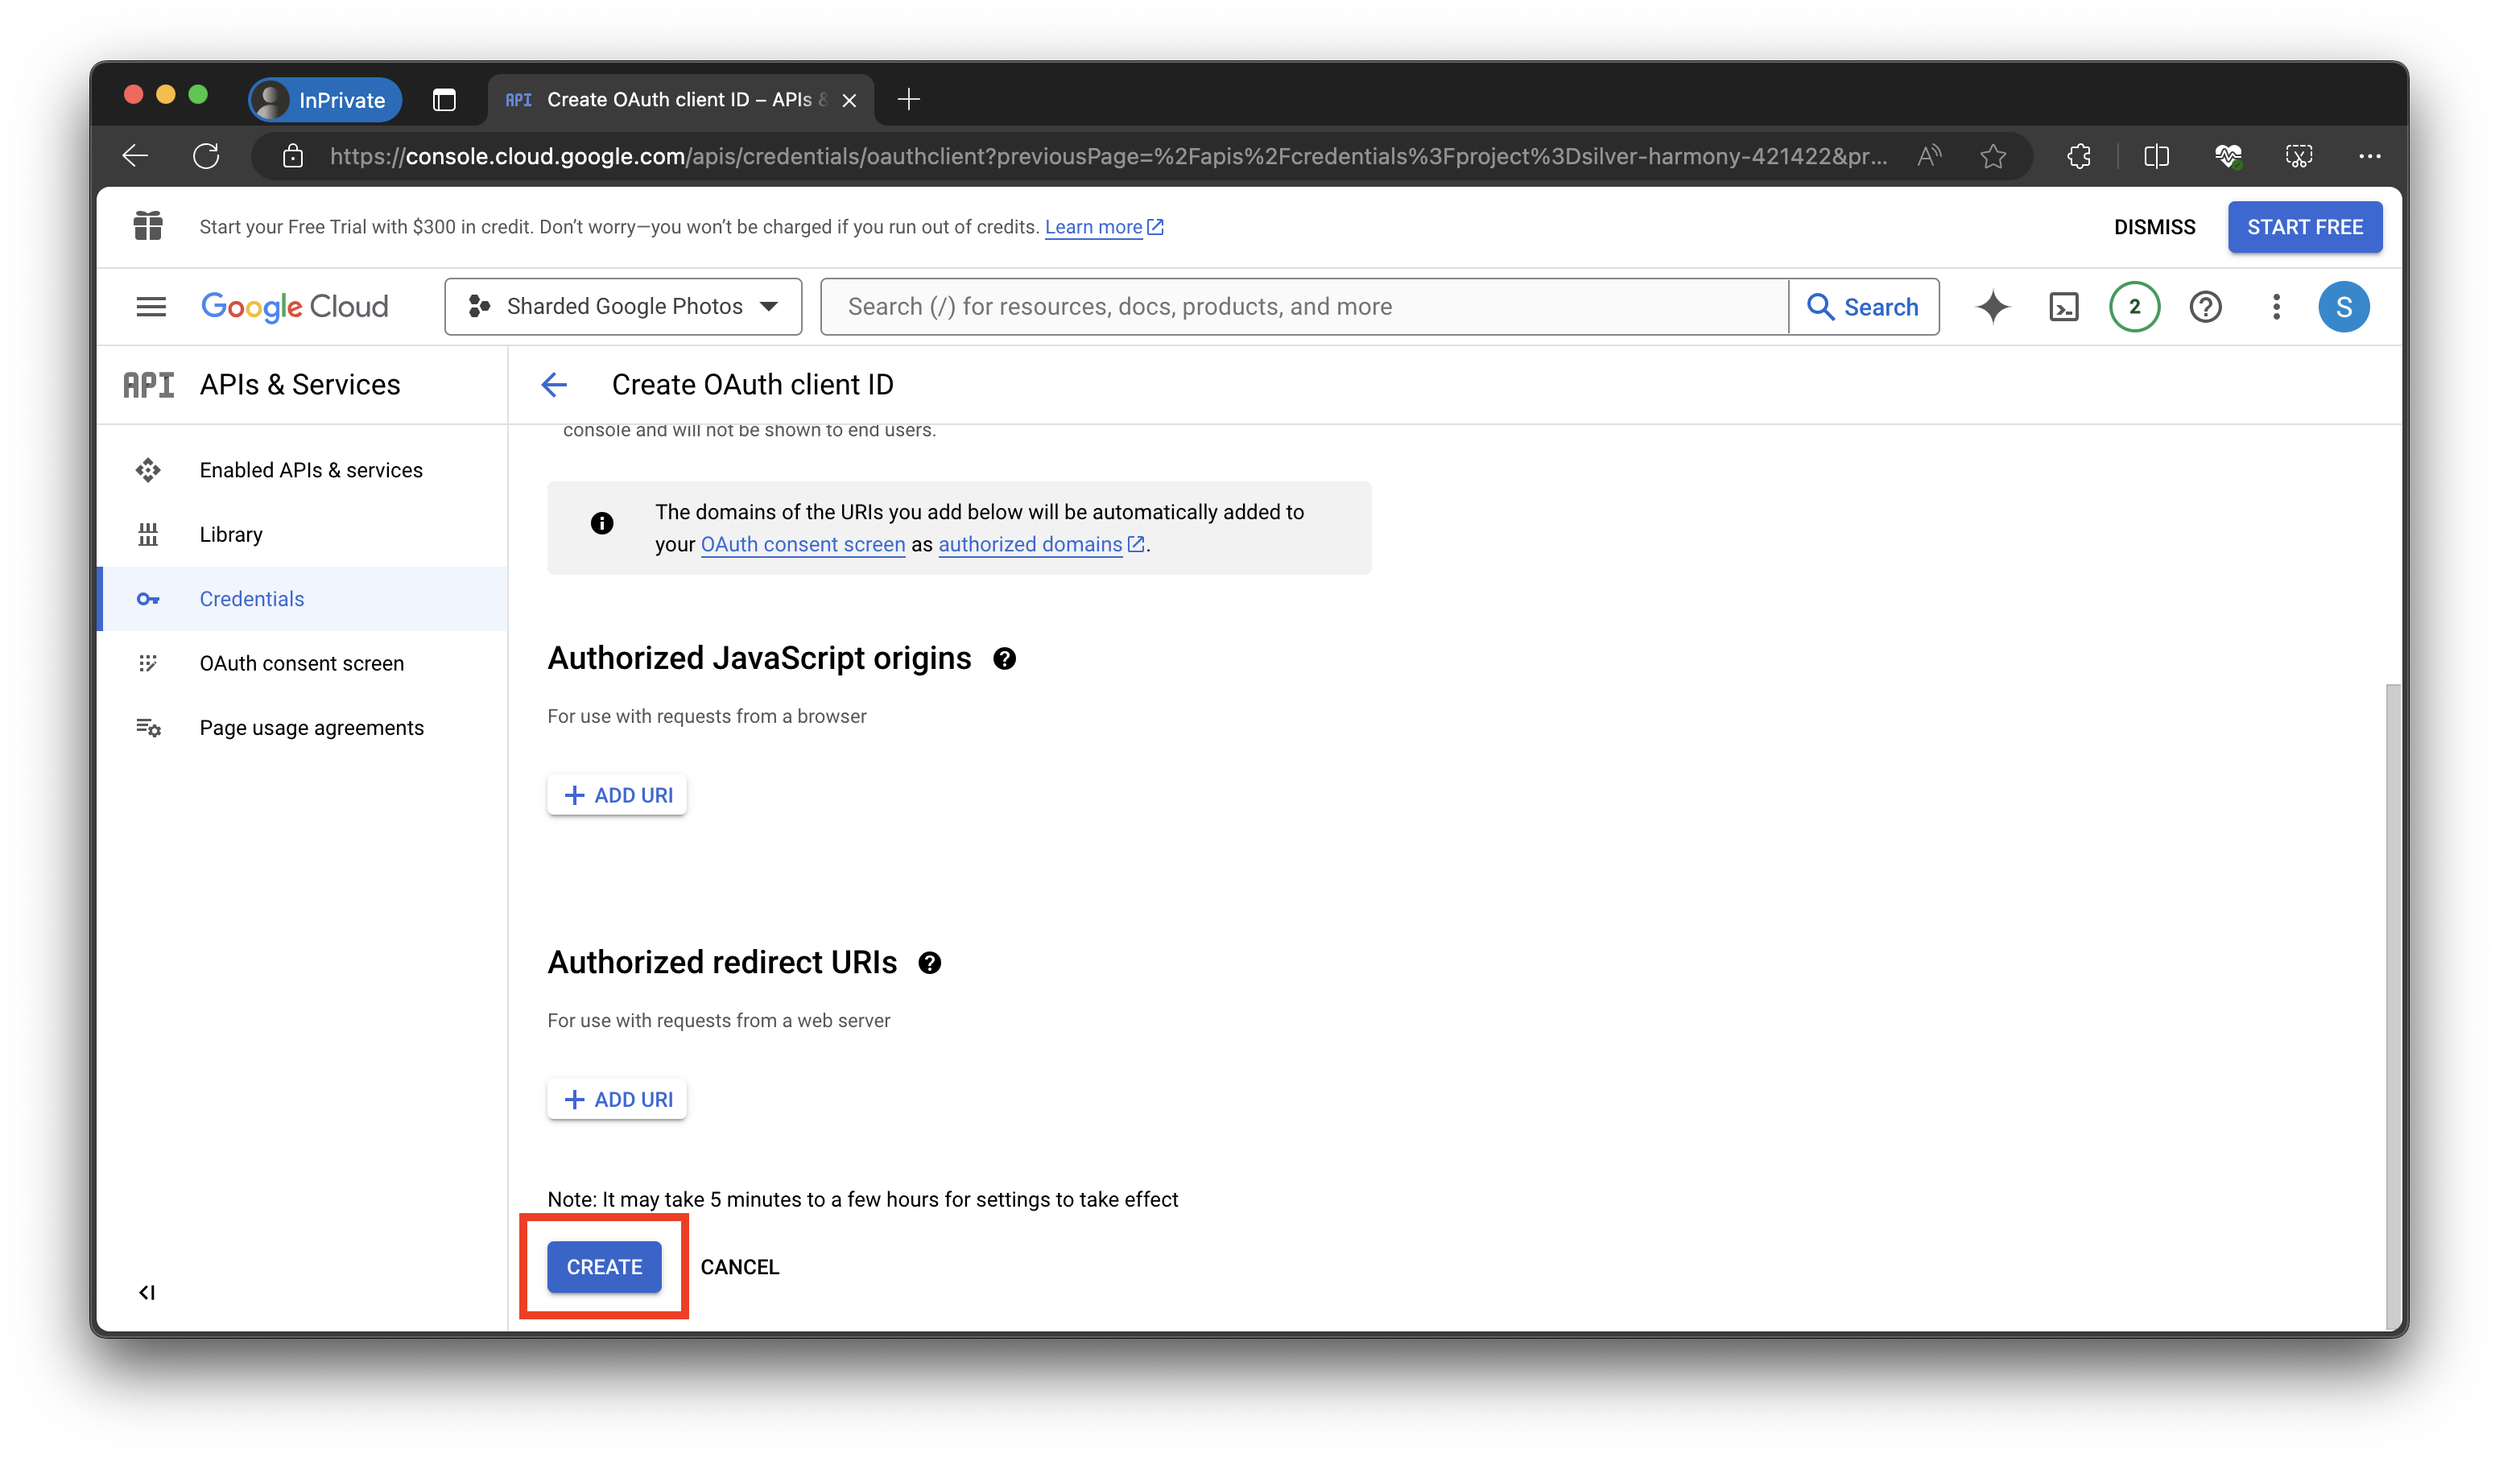
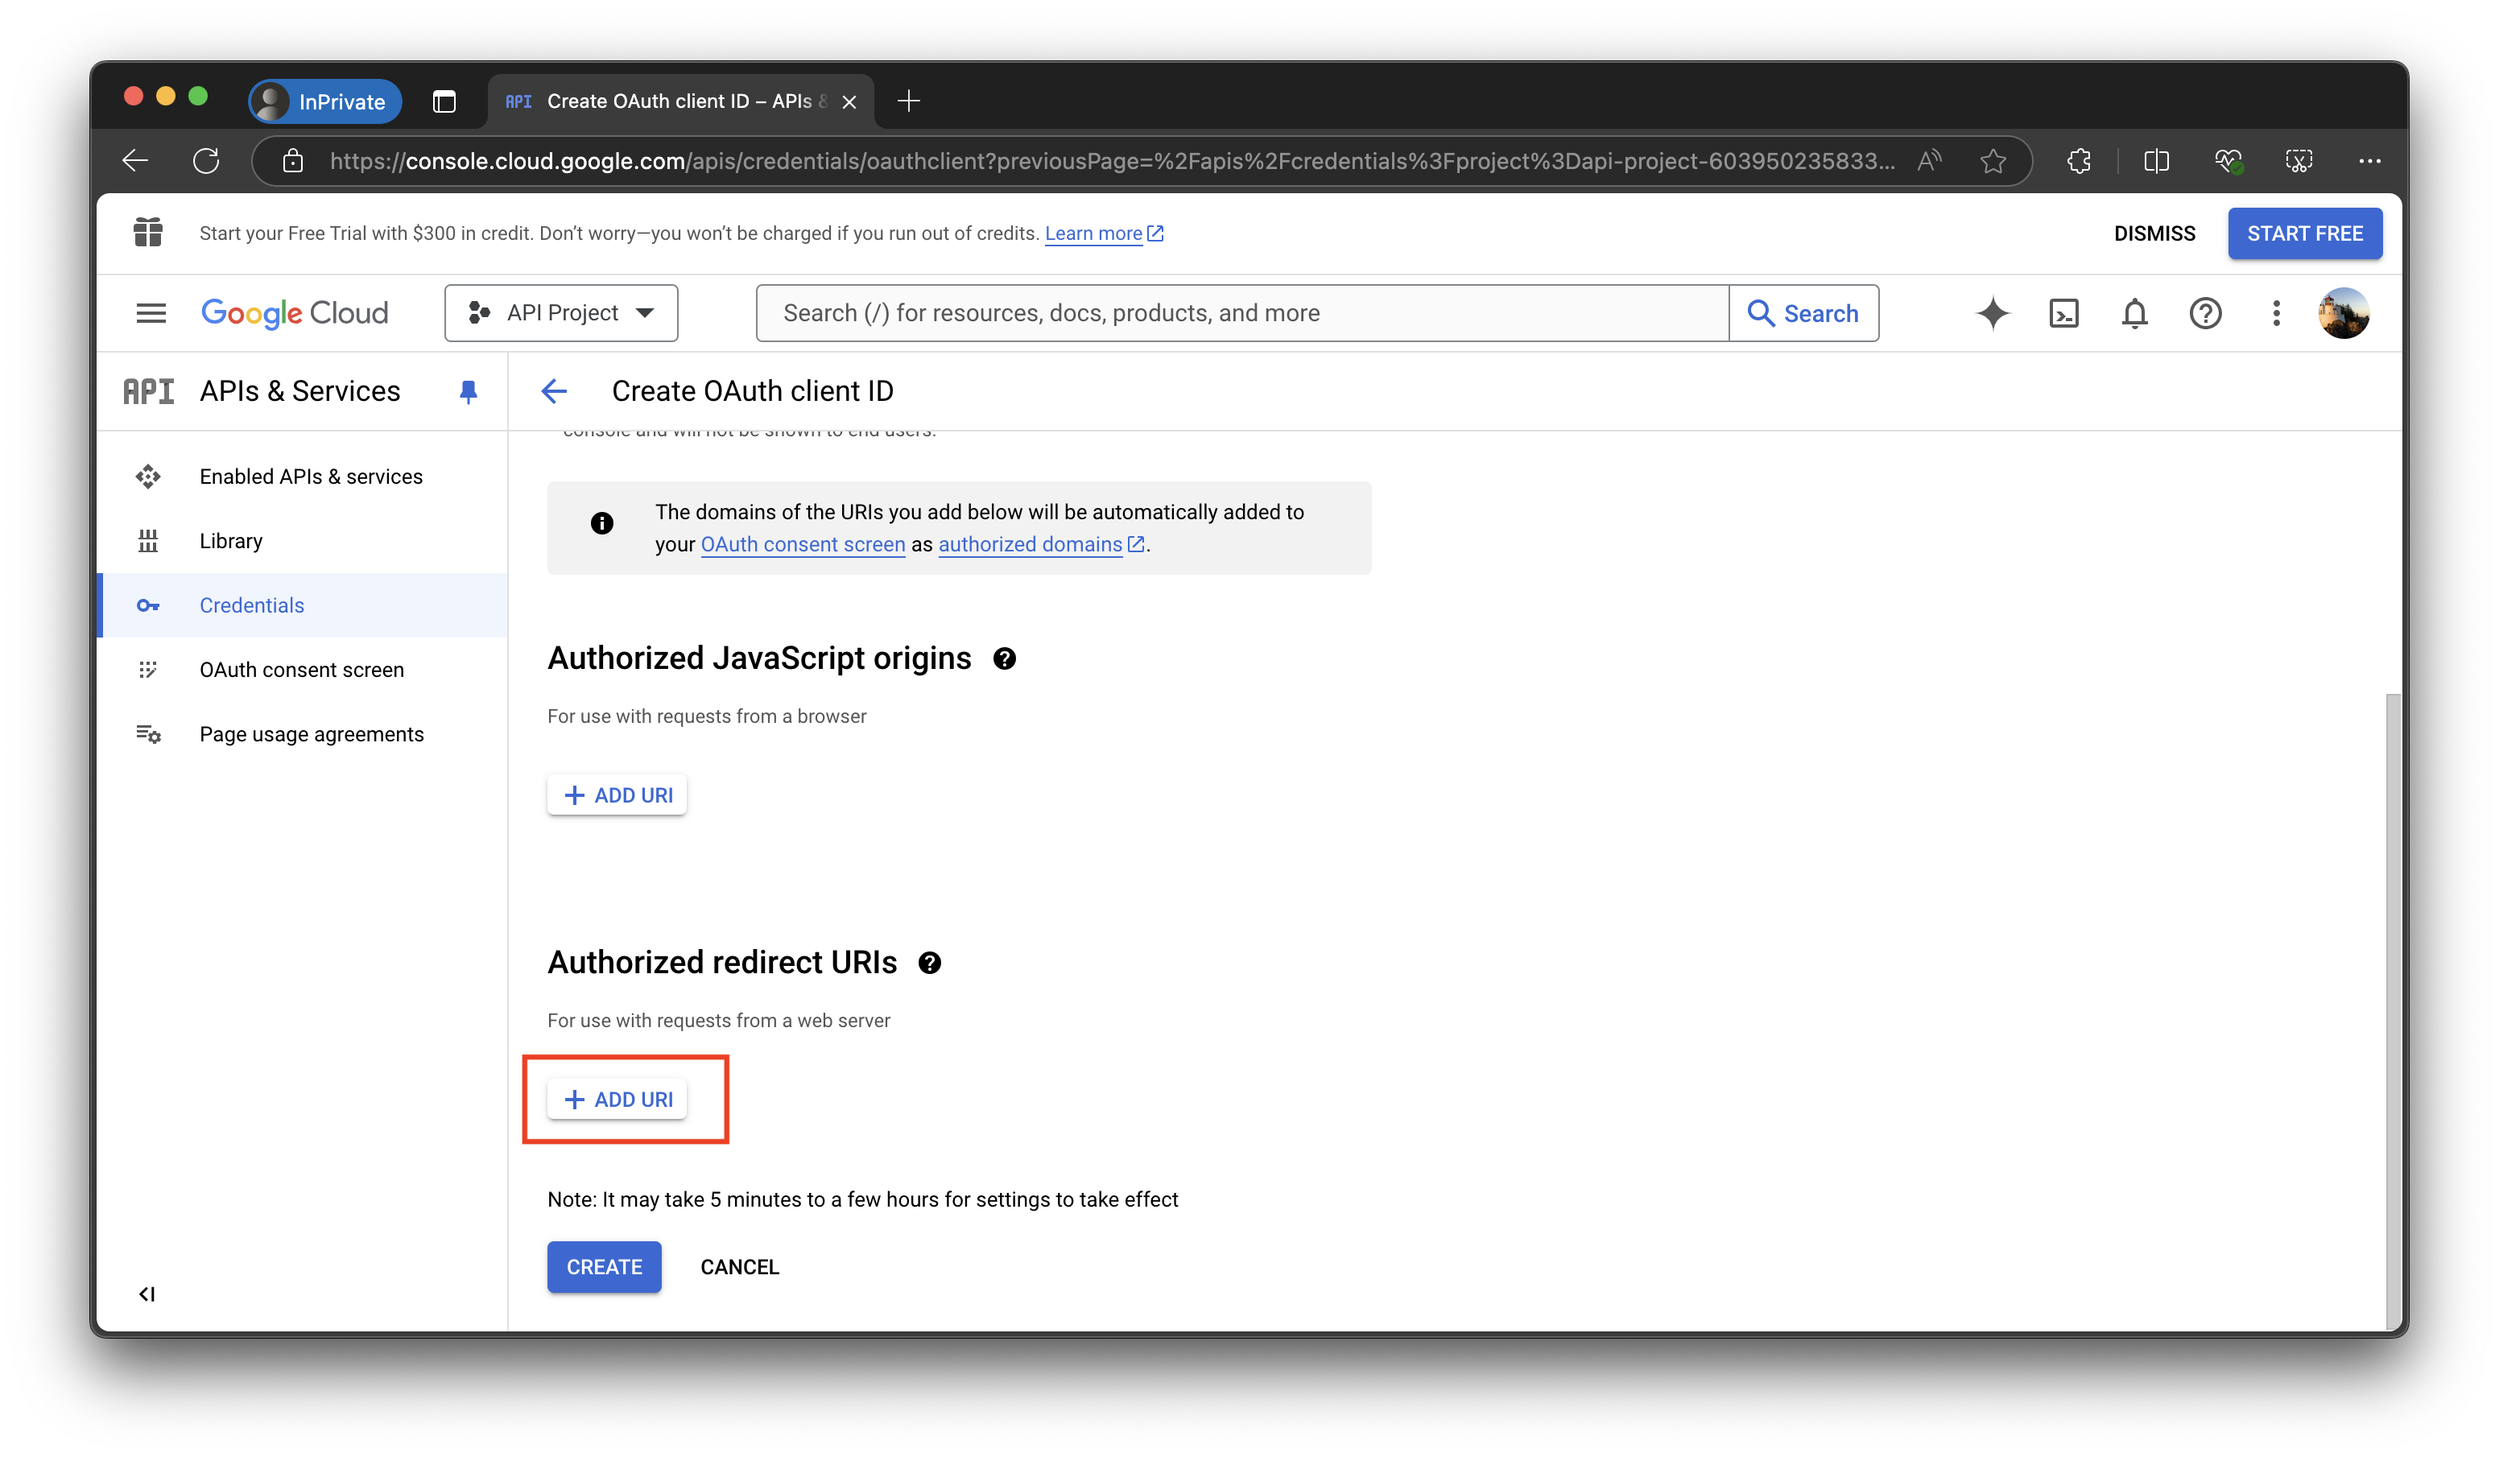
chore: fix readme

diff --git a/README.md b/README.md
@@ -31,17 +31,21 @@ It works like this:
     backup_client = GPhotosBackup(clients)
     ```
 
-    Run this script and follow the instructions from the cli.
+    Run this script.
+
+    The first time this is run, it will ask for you to log in via OAuth. Copy-paste the links to your browser and follow the instructions from there. It will save the credentials (i.e, `access_token` and `refresh_token`) in the respected `creds_file` (i.e, `credentials-1.json`, `credentials-2.json`, and `credentials-3.json`).
+
+    The next time the script is run, it will take the credentials from the `creds_file`. If it needs to be reauthenticated, it will ask you to log in via OAuth.
 
 5. To upload four photos from two folders, run the following:
 
     ```python
     new_album_uris = backup_client.backup(
         [
-            { "modifier": "+", "file_path": "./Archives/Photos/2022/Trip to California/1.jpg" },
-            { "modifier": "+", "file_path": "./Archives/Photos/2022/Trip to California/2.jpg" },
-            { "modifier": "+", "file_path": "./Archives/Photos/2022/Trip to Toronto/3.jpg" },
-            { "modifier": "+", "file_path": "./Archives/Photos/2022/Trip to Toronto/4.jpg" },
+            { "modifier": "+", "path": "./Archives/Photos/2022/Trip to California/1.jpg" },
+            { "modifier": "+", "path": "./Archives/Photos/2022/Trip to California/2.jpg" },
+            { "modifier": "+", "path": "./Archives/Photos/2022/Trip to Toronto/3.jpg" },
+            { "modifier": "+", "path": "./Archives/Photos/2022/Trip to Toronto/4.jpg" },
         ]
     )
     print(new_album_uris)
@@ -64,8 +68,8 @@ It works like this:
     ```python
     backup_client.backup(
         [
-            { "modifier": "-", "file_path": "./Archives/Photos/2022/Trip to California/1.jpg" },
-            { "modifier": "+", "file_path": "./Archives/Photos/2022/Trip to California/1.jpg" },
+            { "modifier": "-", "path": "./Archives/Photos/2022/Trip to California/1.jpg" },
+            { "modifier": "+", "path": "./Archives/Photos/2022/Trip to California/1.jpg" },
         ]
     )
     ```
@@ -76,7 +80,7 @@ It works like this:
     backup_client.backup(
         [
             {
-                "modifier": "-", "file_path": "./Archives/Photos/2022/Trip to California/1.jpg",
+                "modifier": "-", "path": "./Archives/Photos/2022/Trip to California/1.jpg",
             }
         ]
     )

diff --git a/docs/create_client_id.md b/docs/create_client_id.md
@@ -153,7 +153,7 @@ This document outlines how to create your own OAuth2 client ID and client secret
     </p>
 </div>
 
-12. Create the Client IDs and client secrets by going to the "Credentials" tab, clicking on "Create Credentials", select "OAuth Client ID", and selecting "Web Application":
+12. Create the Client IDs and client secrets by going to the "Credentials" tab, clicking on "Create Credentials", select "OAuth Client ID", selecting "Web Application", and adding `http://localhost:8080/` in the authorized redirect uri:
 
 <div width="100%">
     <p align="center">
@@ -179,8 +179,6 @@ This document outlines how to create your own OAuth2 client ID and client secret
     </p>
 </div>
 
-13. Finally, click on the `Create` button. A dialog will appear with your Client ID and Client secrets. Download the file and you now have your own client ID and client secrets:
-
 <div width="100%">
     <p align="center">
 <img src="image-26.png" width="600px"/>
@@ -190,5 +188,19 @@ This document outlines how to create your own OAuth2 client ID and client secret
 <div width="100%">
     <p align="center">
 <img src="image-27.png" width="600px"/>
+    </p>
+</div>
+
+13. Finally, click on the `Create` button. A dialog will appear with your Client ID and Client secrets. Download the file named as `client_secrets.json` and you now have your own client ID and client secrets:
+
+<div width="100%">
+    <p align="center">
+<img src="image-28.png" width="600px"/>
+    </p>
+</div>
+
+<div width="100%">
+    <p align="center">
+<img src="image-29.png" width="600px"/>
     </p>
 </div>
